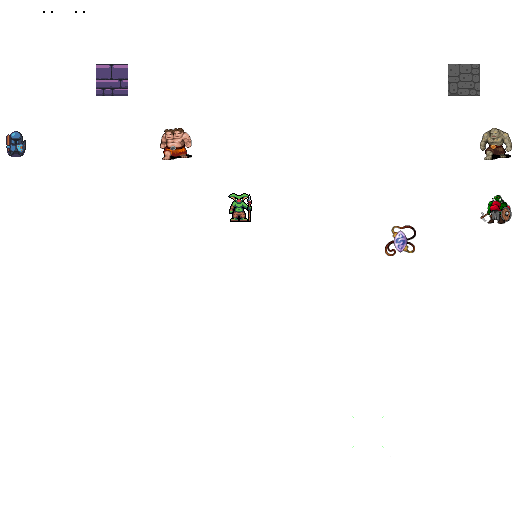
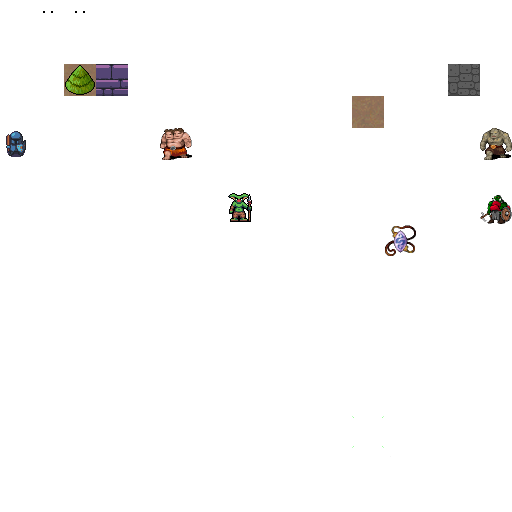
Themes

Changed region(s): [[0.6875, 0.1875, 0.75, 0.25], [0.125, 0.125, 0.1875, 0.1875]]

diff --git a/src/main.rs b/src/main.rs
@@ -63,6 +63,17 @@ struct State {
 
 impl State {
     fn new() -> Self {
+        let (ecs, resources) = State::initialized_resources();
+        Self {
+            ecs,
+            resources,
+            input_systems: build_input_schedule(),
+            player_systems: build_player_schedule(),
+            monster_systems: build_monster_schedule(),
+        }
+    }
+
+    fn initialized_resources() -> (World, Resources) {
         let mut ecs = World::default();
         let mut resources = Resources::default();
         let mut rng = RandomNumberGenerator::new();
@@ -77,13 +88,8 @@ impl State {
         resources.insert(Camera::new(map_builder.player_start));
         resources.insert(TurnState::AwaitingInput);
         resources.insert(rng);
-        Self {
-            ecs,
-            resources,
-            input_systems: build_input_schedule(),
-            player_systems: build_player_schedule(),
-            monster_systems: build_monster_schedule(),
-        }
+        resources.insert(map_builder.theme);
+        (ecs, resources)
     }
 
     fn game_over(&mut self, ctx: &mut BTerm) {
@@ -137,27 +143,9 @@ impl State {
     }
 
     fn reset_game_state(&mut self) {
-        self.ecs = World::default();
-        self.resources = Resources::default();
-        let mut rng = RandomNumberGenerator::new();
-        let map_builder = MapBuilder::build(&mut rng);
-        spawn_player(&mut self.ecs, map_builder.player_start);
-        spawn_amulet_of_yala(&mut self.ecs, map_builder.amulet_start);
-        map_builder
-            .monster_spawns
-            .iter()
-            .for_each(|pos| spawn_monster(&mut self.ecs, &mut rng, *pos));
-
-        map_builder
-            .rooms
-            .iter()
-            .skip(1)
-            .map(|r| r.center())
-            .for_each(|pos| spawn_monster(&mut self.ecs, &mut rng, pos));
-        self.resources.insert(map_builder.map);
-        self.resources.insert(Camera::new(map_builder.player_start));
-        self.resources.insert(TurnState::AwaitingInput);
-        self.resources.insert(rng);
+        let (ecs, resources) = State::initialized_resources();
+        self.ecs = ecs;
+        self.resources = resources;
     }
 }
 

diff --git a/src/systems/map_render.rs b/src/systems/map_render.rs
@@ -3,7 +3,12 @@ use crate::prelude::*;
 #[system]
 #[read_component(FieldOfView)]
 #[read_component(Player)]
-pub fn map_render(ecs: &SubWorld, #[resource] map: &Map, #[resource] camera: &Camera) {
+pub fn map_render(
+    ecs: &SubWorld,
+    #[resource] map: &Map,
+    #[resource] camera: &Camera,
+    #[resource] theme: &Option<Box<dyn MapTheme>>,
+) {
     let mut fov = <&FieldOfView>::query().filter(component::<Player>());
     let mut draw_batch = DrawBatch::new();
     draw_batch.target(BACKGROUND_LAYER.id);
@@ -20,9 +25,12 @@ pub fn map_render(ecs: &SubWorld, #[resource] map: &Map, #[resource] camera: &Ca
                 } else {
                     DARK_GRAY
                 };
-                let glyph = match map.tiles[idx] {
-                    TileType::Floor => to_cp437('.'),
-                    TileType::Wall => to_cp437('#'),
+                let glyph = match theme {
+                    Some(theme) => theme.tile_to_render(map.tiles[idx]),
+                    None => match map.tiles[idx] {
+                        TileType::Floor => to_cp437('.'),
+                        TileType::Wall => to_cp437('#'),
+                    },
                 };
                 draw_batch.set(pt - offset, ColorPair::new(tint, BLACK), glyph);
             }

diff --git a/src/map_builder/mod.rs b/src/map_builder/mod.rs
@@ -4,6 +4,9 @@ mod drunkard;
 mod empty;
 mod prefab;
 mod rooms;
+mod themes;
+
+use crate::map_builder::themes::{DungeonTheme, ForestTheme};
 use automata::CellularAutomataArchitect;
 use drunkard::DrunkardsWalkArchitect;
 use prefab::apply_prefab;
@@ -24,6 +27,7 @@ pub struct MapBuilder {
     pub monster_spawns: Vec<Point>,
     pub player_start: Point,
     pub amulet_start: Point,
+    pub theme: Option<Box<dyn MapTheme>>,
 }
 
 impl MapBuilder {
@@ -44,6 +48,12 @@ impl MapBuilder {
         };
         let mut mb = architect.build(rng);
         apply_prefab(&mut mb, rng);
+
+        mb.theme = match rng.range(0, 2) {
+            0 => Some(DungeonTheme::new()),
+            _ => Some(ForestTheme::new()),
+        };
+
         println!("Amulet is at {:?}", mb.amulet_start);
         println!(
             "monster.spawns[{}]={:?}",
@@ -206,4 +216,8 @@ pub fn display(
     //       stdin()
     //           .read_line(&mut ignore_me)
     //           .expect("Failed to read line");
+}
+
+pub trait MapTheme: Sync + Send {
+    fn tile_to_render(&self, tile_type: TileType) -> FontCharType;
 }

diff --git a/src/map_builder/themes.rs b/src/map_builder/themes.rs
@@ -1,0 +1,35 @@
+use crate::prelude::*;
+
+pub struct DungeonTheme {}
+
+impl DungeonTheme {
+    pub fn new() -> Box<dyn MapTheme> {
+        Box::new(Self {})
+    }
+}
+
+impl MapTheme for DungeonTheme {
+    fn tile_to_render(&self, tile_type: TileType) -> u16 {
+        match tile_type {
+            TileType::Floor => to_cp437('.'),
+            TileType::Wall => to_cp437('#'),
+        }
+    }
+}
+
+pub struct ForestTheme {}
+
+impl ForestTheme {
+    pub fn new() -> Box<dyn MapTheme> {
+        Box::new(Self {})
+    }
+}
+
+impl MapTheme for ForestTheme {
+    fn tile_to_render(&self, tile_type: TileType) -> u16 {
+        match tile_type {
+            TileType::Floor => to_cp437(';'),
+            TileType::Wall => to_cp437('"'),
+        }
+    }
+}

diff --git a/src/map_builder/empty.rs b/src/map_builder/empty.rs
@@ -11,6 +11,7 @@ impl MapArchitect for EmptyArchitect {
             monster_spawns: Vec::new(),
             player_start: Point::zero(),
             amulet_start: Point::zero(),
+            theme: None,
         };
         mb.fill(TileType::Floor);
         mb.player_start = Point::new(SCREEN_WIDTH / 2, SCREEN_HEIGHT / 2);

diff --git a/src/map_builder/automata.rs b/src/map_builder/automata.rs
@@ -12,6 +12,7 @@ impl MapArchitect for CellularAutomataArchitect {
             monster_spawns: vec![],
             player_start: Point::zero(),
             amulet_start: Point::zero(),
+            theme: None,
         };
         self.random_noise_map(rng, &mut mb.map);
         for _ in 0..10 {

diff --git a/src/map_builder/drunkard.rs b/src/map_builder/drunkard.rs
@@ -15,6 +15,7 @@ impl MapArchitect for DrunkardsWalkArchitect {
             monster_spawns: vec![],
             player_start: Point::zero(),
             amulet_start: Point::zero(),
+            theme: None,
         };
 
         mb.fill(TileType::Wall);

diff --git a/src/map_builder/rooms.rs b/src/map_builder/rooms.rs
@@ -10,6 +10,7 @@ impl MapArchitect for RoomsArchitect {
             monster_spawns: Vec::new(),
             player_start: Point::zero(),
             amulet_start: Point::zero(),
+            theme: None,
         };
 
         mb.fill(TileType::Wall);
